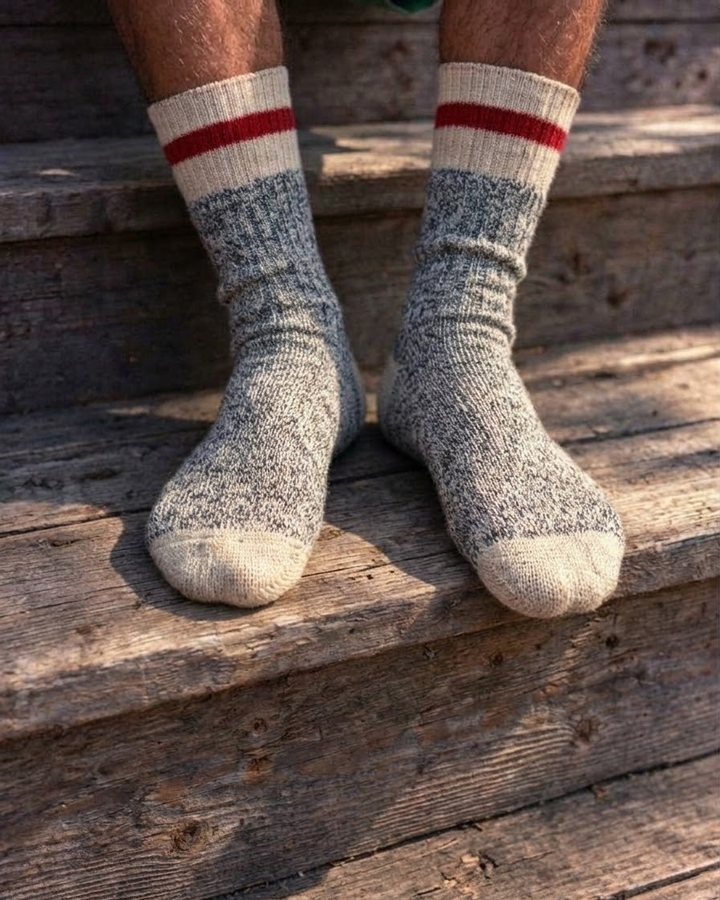
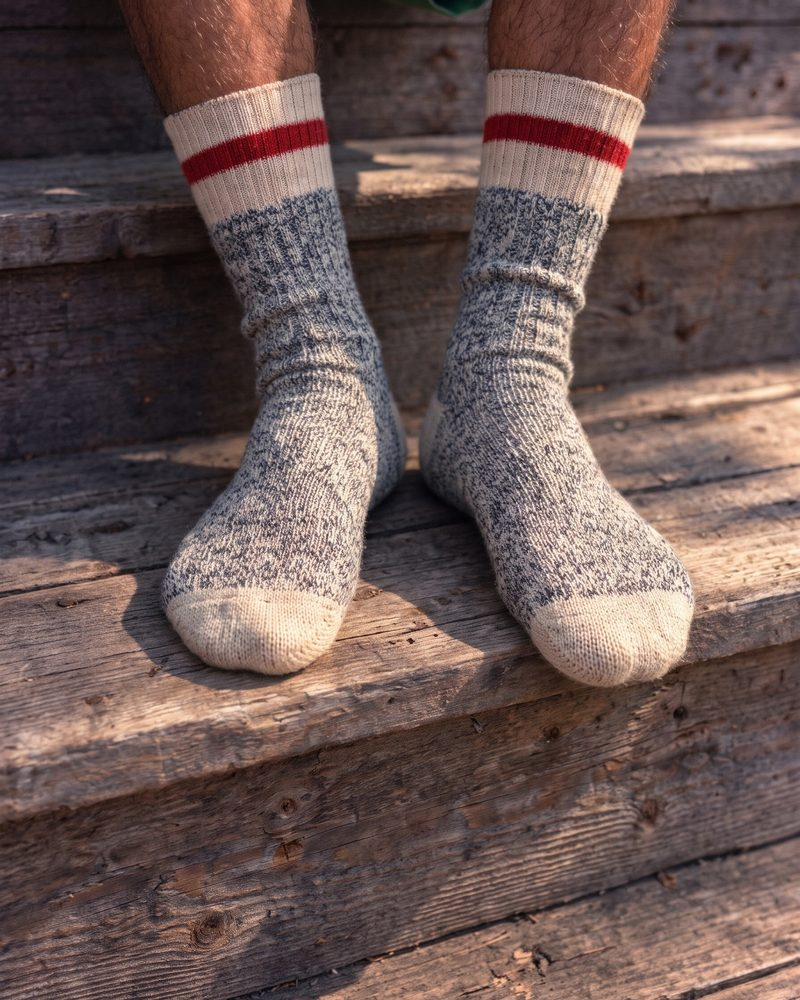
Use the full-resolution sock photo for the close-ups and update caption D
Claude-Session: https://claude.ai/code/session_01FG8MAcaJZXwcxbdgooX142

diff --git a/index.html b/index.html
@@ -301,10 +301,10 @@
   <section class="product closeups" aria-label="Heritage Trail Sock close-ups">
     <div class="wrap">
       <ul class="features">
-        <li><figure><img src="assets/img/closeup-cuff.jpg" width="312" height="390" loading="lazy" alt="Close-up of a cream ribbed sock cuff with a single red stripe, worn on a wooden step."><figcaption><b>A</b> <span>Cream cuff. Single red stripe.</span></figcaption></figure></li>
-        <li><figure><img src="assets/img/closeup-leg.jpg" width="328" height="410" loading="lazy" alt="Close-up of a marled blue-gray sock leg in a classic ragg knit."><figcaption><b>B</b> <span>Marled blue-gray. Classic ragg texture.</span></figcaption></figure></li>
-        <li><figure><img src="assets/img/closeup-toe.jpg" width="352" height="440" loading="lazy" alt="Close-up of a marled sock with a contrasting cream toe, resting on a weathered wooden step."><figcaption><b>C</b> <span>Contrasting cream heel and toe.</span></figcaption></figure></li>
-        <li><figure><img src="assets/img/closeup-pair.jpg" width="720" height="900" loading="lazy" alt="A pair of crew-height ragg socks with cream cuffs, red stripes and cream toes, worn on weathered wooden steps."><figcaption><b>D</b> <span>Crew height. Boots or sandals.</span></figcaption></figure></li>
+        <li><figure><img src="assets/img/closeup-cuff.jpg" width="624" height="780" loading="lazy" alt="Close-up of a cream ribbed sock cuff with a single red stripe, worn on a wooden step."><figcaption><b>A</b> <span>Cream cuff. Single red stripe.</span></figcaption></figure></li>
+        <li><figure><img src="assets/img/closeup-leg.jpg" width="656" height="820" loading="lazy" alt="Close-up of a marled blue-gray sock leg in a classic ragg knit."><figcaption><b>B</b> <span>Marled blue-gray. Classic ragg texture.</span></figcaption></figure></li>
+        <li><figure><img src="assets/img/closeup-toe.jpg" width="704" height="880" loading="lazy" alt="Close-up of a marled sock with a contrasting cream toe, resting on a weathered wooden step."><figcaption><b>C</b> <span>Contrasting cream heel and toe.</span></figcaption></figure></li>
+        <li><figure><img src="assets/img/closeup-pair.jpg" width="800" height="1000" loading="lazy" alt="A pair of crew-height ragg socks with cream cuffs, red stripes and cream toes, worn on weathered wooden steps."><figcaption><b>D</b> <span>Crew height. Made to be seen.</span></figcaption></figure></li>
       </ul>
     </div>
   </section>
